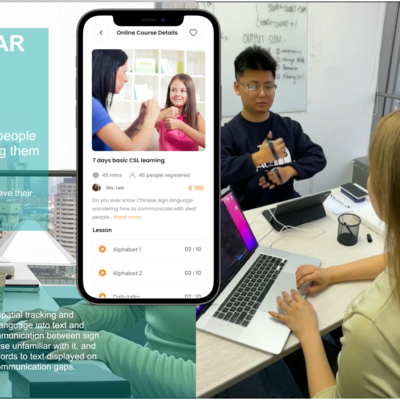
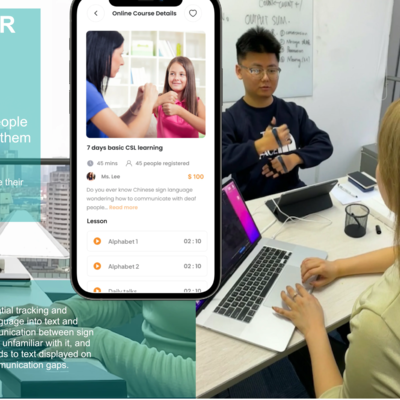
Refine Smart Translate Glove Figma card
- Shift thumbnail crop down 5% to avoid the grey top border
- Rename "Live Site" button to "Prototype Preview"
- Credit usability-test collaborator Qian Li (linked to portfolio)

diff --git a/index.html b/index.html
@@ -300,7 +300,7 @@
 				<div class="project-meta">
 					<span class="badge badge-live">Live Demo</span>
 				</div>
-				<p>A Figma-designed product portfolio for the Smart Translate Glove concept &mdash; six high-resolution pages covering product positioning, use cases, and interaction flow. Deployed as an interactive lightbox gallery (PhotoSwipe) on GitHub Pages, with wheel-zoom, pan, and keyboard navigation.</p>
+				<p>A Figma-designed product portfolio for the Smart Translate Glove concept &mdash; six high-resolution pages covering product positioning, use cases, and interaction flow. Deployed as an interactive lightbox gallery (PhotoSwipe) on GitHub Pages, with wheel-zoom, pan, and keyboard navigation. Collaborated with <a href="https://www.qianliportfolio.com/" target="_blank">Qian Li</a> (Usability Test).</p>
 				<div class="tech-tags">
 					<span class="tech-tag">Figma</span>
 					<span class="tech-tag">Product Design</span>
@@ -309,7 +309,7 @@
 					<span class="tech-tag">PhotoSwipe</span>
 				</div>
 				<div class="project-links">
-					<a href="https://jeffliulab.github.io/smart-translate-glove-figma/" target="_blank" class="proj-btn video-btn">Live Site</a>
+					<a href="https://jeffliulab.github.io/smart-translate-glove-figma/" target="_blank" class="proj-btn video-btn">Prototype Preview</a>
 					<a href="https://github.com/jeffliulab/smart-translate-glove-figma" target="_blank" class="proj-btn gh-btn"><i class="bi bi-github"></i> GitHub</a>
 				</div>
 			</div>

diff --git a/index_cn.html b/index_cn.html
@@ -299,7 +299,7 @@
 				<div class="project-meta">
 					<span class="badge badge-live">在线演示</span>
 				</div>
-				<p>智能翻译手套概念的 Figma 产品设计作品集 —— 六页高分辨率原型，涵盖产品定位、使用场景与交互流程。部署在 GitHub Pages 上，使用 PhotoSwipe 实现交互式 lightbox 画廊，支持滚轮缩放、拖拽平移与键盘导航。</p>
+				<p>智能翻译手套概念的 Figma 产品设计作品集 —— 六页高分辨率原型，涵盖产品定位、使用场景与交互流程。部署在 GitHub Pages 上，使用 PhotoSwipe 实现交互式 lightbox 画廊，支持滚轮缩放、拖拽平移与键盘导航。与 <a href="https://www.qianliportfolio.com/" target="_blank">Qian Li</a> 合作完成可用性测试（Usability Test）。</p>
 				<div class="tech-tags">
 					<span class="tech-tag">Figma</span>
 					<span class="tech-tag">产品设计</span>
@@ -308,7 +308,7 @@
 					<span class="tech-tag">PhotoSwipe</span>
 				</div>
 				<div class="project-links">
-					<a href="https://jeffliulab.github.io/smart-translate-glove-figma/" target="_blank" class="proj-btn video-btn">在线访问</a>
+					<a href="https://jeffliulab.github.io/smart-translate-glove-figma/" target="_blank" class="proj-btn video-btn">原型预览</a>
 					<a href="https://github.com/jeffliulab/smart-translate-glove-figma" target="_blank" class="proj-btn gh-btn"><i class="bi bi-github"></i> GitHub</a>
 				</div>
 			</div>
